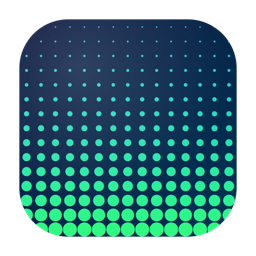
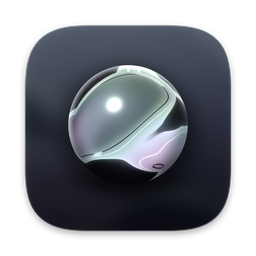
README: rewrite for 1.4.2 with fresh gallery and app renders
New icon, gallery with SYNC and editor shots from UIShots, a 12-scene gallery
rendered by tools/gallery, What's playing demo shots, and updated install,
build, how-it-works and development notes. Removes the 1.0-era effect renders.

diff --git a/README.md b/README.md
@@ -1,134 +1,151 @@
 <p align="center">
-  <img src="docs/icon.png" width="120" alt="DotStudio icon">
+  <img src="docs/icon.png" width="128" alt="DotStudio icon">
 </p>
 
 <h1 align="center">DotStudio</h1>
 
 <p align="center">
-  A native macOS app for building <b>dithered, halftone, matrix, and glitch screensavers</b> —
-  and switching between them <b>without ever reopening System Settings</b>.
+  Living screensavers and wallpaper for your Mac: generative scenes, real clocks,<br>
+  live skies, and the song you're playing on top.
 </p>
 
 <p align="center">
+  <a href="https://github.com/dw2lam/DotStudio/releases/latest"><img src="https://img.shields.io/github/v/release/dw2lam/DotStudio?label=release&color=black" alt="Latest release"></a>
   <img src="https://img.shields.io/badge/macOS-14%2B-black?logo=apple" alt="macOS 14+">
   <img src="https://img.shields.io/badge/Apple%20Silicon-Metal-blue" alt="Apple Silicon · Metal">
   <img src="https://img.shields.io/badge/Swift-SwiftUI-orange?logo=swift" alt="Swift · SwiftUI">
 </p>
 
 <p align="center">
-  <img src="docs/app.png" width="820" alt="DotStudio interface">
+  <img src="docs/app.png" width="860" alt="The DotStudio gallery: Screensaver and Wallpaper cards joined by the SYNC key above a grid of scenes">
 </p>
 
----
+Pick from the gallery or build your own in a live editor. DotStudio installs one screensaver,
+then everything — which style plays, at night, in rotation, behind your windows — happens in
+the app. Native, local, free.
 
-## Why
+## Features
 
-macOS makes you reinstall and re-pick a `.saver` every time you want a different screensaver.
-DotStudio installs **one** universal screensaver, then lets you create, tune, and **switch
-between styles entirely inside the app**. Pick a source once (a gradient, an image, or a video),
-then flip through 36 GPU effects to see it dithered, halftoned, turned into Matrix rain, and more.
+- **Scenes and Looks.** Scenes paint themselves — Liquid Chrome, Topography, Zen Garden, a 3D
+  solar system, a black hole. Looks restyle your own photos and video (or the built-in
+  public-domain slideshow): film, riso, cyanotype, dithers, ASCII, CRT.
+- **Clocks.** StandBy, Minimal and Chronometer are new in 1.4.2, alongside Flip Clock,
+  Word Clock and Window Light.
+- **Bounce.** A logo drifts corner to corner, changing colour on every bounce, and every couple
+  of minutes lands exactly in a corner. Use the DotStudio mark, a word, or your own logo.
+- **Live skies.** Tidewater follows the real sun and moon; the sea scenes follow your local
+  weather — cloud, rain, storms, fog and snow.
+- **What's playing.** Spotify or Apple Music over any screensaver — in a corner, or full screen
+  in Album, Stage or Cover layouts over the album's living art.
+- **Live wallpaper with SYNC.** Any style behind your windows, or press SYNC and the desktop plays
+  the screensaver's scene in step, so the screensaver starts right where your desktop was.
+- **Playlist and Night.** One style, a rotation, and another look after your real sunset.
+- **In the menu bar.** Music, wallpaper and styles without opening a window.
+- **Instant start.** The screensaver is up the moment your Mac goes idle.
+- **Efficient.** Every scene draws with its own GPU pipeline; the wallpaper pauses when windows
+  cover it, and frame rate caps on battery. 120 fps on ProMotion displays, when you want it.
+- **Updates itself.** New versions arrive from GitHub Releases and install when you quit.
+- **Private.** Your library stays on your Mac. Weather is fetched for your approximate location,
+  rounded to about 10 km. When a player doesn't hand over a cover, DotStudio looks it up in
+  Spotify's or Apple's public catalog — only the song's ID, or its artist and album, is sent.
 
-- **One install, infinite styles** — switch the active screensaver from the sidebar, no Settings trip
-- **40 real-time Metal effects** — the full [grain.rad](https://grainrad.com) set, a complete dither
-  suite ([ditherit.com](https://ditherit.com) style: ordered, blue noise, 12 error-diffusion kernels,
-  Riemersma), a "cool pack" (kaleidoscope, bloom, VHS, thermal…), plus **NES 8-bit** and an
-  **adjustable starfield**
-- **Full-screen Preview** — one click to see the real screensaver, just like System Settings
-- **Shared source** — one image / video / gradient feeds every style, with cover / fit / stretch
-- **Live preview + per-effect controls** — reorder, toggle, and tune an effect stack
-- **Lightweight** — GPU shaders, capped frame rate, low CPU
-- **30+ demo screensavers** included
+## Gallery
 
----
-
-## Install
-
-### Option A — download (recommended)
-1. Grab **`DotStudio.dmg`** from the [latest release](https://github.com/dw2lam/dotstudio/releases/latest).
-2. Open it and drag **DotStudio** into **Applications**.
-3. **First launch:** open DotStudio once — macOS blocks it because it isn't notarized. Go to **System Settings → Privacy & Security**, scroll down and click **Open Anyway**.
-4. The welcome guide walks you through picking a style and turning the screensaver on (**Wallpaper → Screen Saver → DotStudio**).
-
-That's the only time you touch System Settings — after that, everything happens in the app's gallery.
-
-**Updates are automatic.** DotStudio checks GitHub Releases hourly, downloads new versions in the background, and installs them when you quit (or click **Restart to Update** in Settings → Updates). The screensaver updates along with the app.
-
-### Option B — build from source
-```bash
-brew install xcodegen
-git clone https://github.com/dw2lam/dotstudio.git
-cd dotstudio
-xcodegen generate
-xcodebuild -scheme DotStudio -configuration Release -derivedDataPath build build
-cp -R build/Build/Products/Release/DotStudio.app /Applications/
-```
-> First Metal build may prompt for the Metal toolchain: `xcodebuild -downloadComponent MetalToolchain`.
-
----
-
-## How to use
-
-1. **Pick a source** (top-right): a gradient, or **import an image / video**. The source is *shared by all styles*.
-2. **Choose a screensaver** in the sidebar — each shows a live thumbnail of how the source looks through it.
-3. **Build your own** by stacking effects: hit **Add**, pick from the categorized menu, then tune the sliders,
-   reorder with the chevrons, and recolor the palette. Effects apply top-to-bottom.
-4. Click **Use as Screensaver** to make it the active one.
-5. **Install** once; from then on, just pick a different style in the app and your Mac's screensaver follows.
-
-`File → Add Demo Screensavers` drops the full demo pack into your library at any time.
-
----
-
-## Effects gallery
-
-> Rendered on the default navy→cyan gradient source. Import a photo and every effect re-renders on it.
+Every frame here is rendered by the app.
 
 | | | |
 |:--:|:--:|:--:|
-| ![](docs/gallery/Green-Phosphor.png)<br>**Green Phosphor** | ![](docs/gallery/Halftone.png)<br>**Halftone** | ![](docs/gallery/Matrix-Rain.png)<br>**Matrix Rain** |
-| ![](docs/gallery/ASCII.png)<br>**ASCII** | ![](docs/gallery/Kaleidoscope.png)<br>**Kaleidoscope** | ![](docs/gallery/Thermal-Cam.png)<br>**Thermal** |
-| ![](docs/gallery/Game-Boy.png)<br>**Game Boy** | ![](docs/gallery/VHS.png)<br>**VHS** | ![](docs/gallery/Voronoi.png)<br>**Voronoi** |
-| ![](docs/gallery/Neon-Wire.png)<br>**Neon Edges** | ![](docs/gallery/Data-Glitch.png)<br>**Glitch Blocks** | ![](docs/gallery/Hex-Grid.png)<br>**Hex Mosaic** |
+| <img src="docs/gallery/liquid-chrome.jpg" alt="Liquid Chrome"><br>**Liquid Chrome** | <img src="docs/gallery/topography.jpg" alt="Topography"><br>**Topography** | <img src="docs/gallery/universe.jpg" alt="Universe"><br>**Universe** |
+| <img src="docs/gallery/zen-garden.jpg" alt="Zen Garden"><br>**Zen Garden** | <img src="docs/gallery/tidewater.jpg" alt="Tidewater at sunset"><br>**Tidewater** | <img src="docs/gallery/aurora.jpg" alt="Aurora"><br>**Aurora** |
+| <img src="docs/gallery/black-hole.jpg" alt="Black Hole"><br>**Black Hole** | <img src="docs/gallery/standby.jpg" alt="StandBy clock"><br>**StandBy** | <img src="docs/gallery/chronometer.jpg" alt="Chronometer clock"><br>**Chronometer** |
+| <img src="docs/gallery/minimal.jpg" alt="Minimal clock"><br>**Minimal** | <img src="docs/gallery/bounce.jpg" alt="Bounce with the DotStudio logo"><br>**Bounce** | <img src="docs/gallery/word-clock.jpg" alt="Word Clock"><br>**Word Clock** |
 
-### Full effect list (40)
+### What's playing
 
-- **Dots & Dither** — Dithering (Bayer 2×2/4×4/8×8, Blue Noise, Floyd–Steinberg, Atkinson, Jarvis-Judice-Ninke, Stucki, Burkes, Sierra ×3, Fan, Shiau-Fan ×2, Simple 2D, **Riemersma**), Halftone, Dots, Pixelate, Blockify, Hex Mosaic, LED Panel, Truchet
-- **Glyphs** — ASCII, Matrix Rain
-- **Lines & Edges** — Edge Detection, Crosshatch, Contour, Wave Lines, Neon Edges
-- **Glitch** — VHS, Scanlines, Grain, Chromatic Shift, Glitch Blocks, Pixel Sort
-- **Color** — Threshold, Posterize, Phosphor, Vignette, Game Boy, **NES 8-Bit**, Bloom, Thermal, Toon
-- **Warp & Mirror** — Kaleidoscope, Mirror, Fisheye, Swirl, Ripple
-- **Generative** — Noise Field, Voronoi, **Starfield**, **Universe** (real-time day/night Earth, planets & stars), **Black Hole** (gravitational lensing + accretion disk)
+| | |
+|:--:|:--:|
+| <img src="docs/gallery/music-album.jpg" alt="Full Screen music, Album layout"><br>**Full Screen** · Album | <img src="docs/gallery/music-corner.jpg" alt="A now-playing card in the corner of Topography"><br>**Corner** · over Topography |
 
-> Error-diffusion and Riemersma dithers run on a GPU compute kernel; the rest are single-pass fragment shaders.
+<sub>Demo track and artwork.</sub>
 
----
+### The editor
+
+Double-click any tile. A big live preview beside every dial — angle, speed, colour, frame rate.
+Stack effects on top of a scene, or start from nothing with **Create Your Own**.
+
+<p align="center">
+  <img src="docs/editor.png" width="860" alt="The DotStudio editor: a live Black Hole preview beside its scene and Bloom layers">
+</p>
+
+## Install
+
+1. Download **[DotStudio.dmg](https://github.com/dw2lam/DotStudio/releases/latest/download/DotStudio.dmg)**
+   from the [latest release](https://github.com/dw2lam/DotStudio/releases/latest) and drag
+   **DotStudio** into Applications.
+2. Open it once. DotStudio isn't notarized yet, so macOS stops the first launch: go to
+   **System Settings → Privacy & Security** and click **Open Anyway**.
+3. Follow the welcome guide. It installs the screensaver, then shows you where to choose it in
+   **Wallpaper → Screen Saver**. After that, you switch styles inside the app.
+
+Updates are automatic: DotStudio checks GitHub Releases, downloads new versions in the background
+and installs them when you quit (or **Settings → Updates → Restart to Update**). The screensaver
+updates along with the app. Releases are signed with a stable identity, so privacy permissions
+(like Automation for Spotify and Music) survive updates.
+
+Requires macOS 14 or later. Made and tested on Apple Silicon.
+
+### Build from source
+
+Needs Xcode 26 or later (the app uses the macOS 26 SDK) and [XcodeGen](https://github.com/yonaskolb/XcodeGen).
+
+```bash
+brew install xcodegen
+git clone https://github.com/dw2lam/DotStudio.git && cd DotStudio
+xcodegen generate
+xcodebuild -project DotStudio.xcodeproj -scheme DotStudio -configuration Release \
+  -derivedDataPath build build
+open build/Build/Products/Release
+```
+
+If the first build asks for the Metal toolchain: `xcodebuild -downloadComponent MetalToolchain`.
 
 ## How it works
 
-DotStudio ships **one** screensaver bundle (`DotStudio.saver`). The app writes your preset library
-into the screensaver host's sandbox container; the saver renders whichever preset is marked **active**
-and live-reloads when you change it. So switching "screensavers" is just flipping the active preset —
-no reinstalling, no System Settings. Everything renders through a single Metal über-shader
-(one fullscreen pass per effect, ping-ponged), so it stays GPU-cheap.
+- **One screensaver.** The app embeds a single universal `DotStudio.saver`. It reads the shared
+  library in `~/Library/Application Support/DotStudio` (read-only, from the sandboxed screensaver
+  host) and plays whatever the library says. The app writes the library, plus the music and
+  weather state the screensaver shows. Switching styles never touches System Settings.
+- **A pipeline per scene.** Each scene is compiled into its own Metal pipeline, and after an
+  install or update the app precompiles them for your Mac into a pipeline archive, so the
+  screensaver draws its first frame almost immediately.
+- **Wallpaper.** Desktop-level windows paced to the display. They stop drawing entirely while
+  covered, locked, asleep or under the screensaver, and hold still when the Mac runs hot.
 
----
+## Development
 
-## Notes
+Headless tools — nothing is shown on screen, and each one runs against a throwaway store
+(`DOTSTUDIO_STORE_DIR=$(mktemp -d)`), never your real library.
 
-- Built and tested on **macOS 26 (Tahoe), Apple Silicon**. Requires macOS 14+.
-- macOS's legacy screensaver host can be slow to load *any* third-party `.saver` on recent
-  releases — judge by the real screensaver (let the screen idle), not the System Settings preview,
-  and reboot if the host gets stuck.
+| Tool | What it does |
+|---|---|
+| `tools/gallery/render.sh <dir> --only "Aurora" --size 1280x800` | Renders the default styles to PNGs (`--clock`, `--weather`, `--logo`, music flags; see `main.swift`) |
+| `tools/perf/run.sh renderer\|saver\|wallpaper\|idle` | CPU, allocation, file-system and wake-up costs of the render loops |
+| `tools/startup/run.sh` | Time to first frame, cold and warm |
+| `tools/music-selftest/run.sh` | End-to-end music detection, driven by synthetic player notifications |
+| `tools/icon/build.sh <dir>` | Regenerates the app icon from the renderer |
+| `DOTSTUDIO_UI_SHOTS=<dir>` on the app binary | Off-screen renders of every app screen (`DOTSTUDIO_UI_ONLY`, `_SIZES`, `_APPEARANCE`; see `App/Shots.swift`) |
+
+Release history is in [CHANGELOG.md](CHANGELOG.md). Tagging `v*` builds, signs and publishes a
+release with its Sparkle appcast (`.github/workflows/release.yml`).
 
 ## Credits
 
-Inspired by [grain.rad](https://grainrad.com) and [ditherit.com](https://ditherit.com).
-Built with SwiftUI + Metal.
+Built with SwiftUI and Metal. Updates by [Sparkle](https://sparkle-project.org).
 
-Live weather in **Ocean Horizon** and **Shallows**: [Weather data by Open-Meteo.com](https://open-meteo.com/),
-licensed [CC BY 4.0](https://creativecommons.org/licenses/by/4.0/).
-
-Earth and planet maps in the **Universe** screensaver are from
-[Solar System Scope](https://www.solarsystemscope.com/textures/) — licensed
-[CC BY 4.0](https://creativecommons.org/licenses/by/4.0/).
+- Weather: [Weather data by Open-Meteo.com](https://open-meteo.com/), licensed
+  [CC BY 4.0](https://creativecommons.org/licenses/by/4.0/).
+- Earth and planet maps in **Universe**: [Solar System Scope](https://www.solarsystemscope.com/textures/),
+  licensed [CC BY 4.0](https://creativecommons.org/licenses/by/4.0/).
+- Built-in slideshow photos: CC0 and public domain, via Wikimedia Commons — see
+  [Shared/Photos/CREDITS.md](Shared/Photos/CREDITS.md).
+- The Looks were inspired by [grain.rad](https://grainrad.com) and [ditherit.com](https://ditherit.com).
